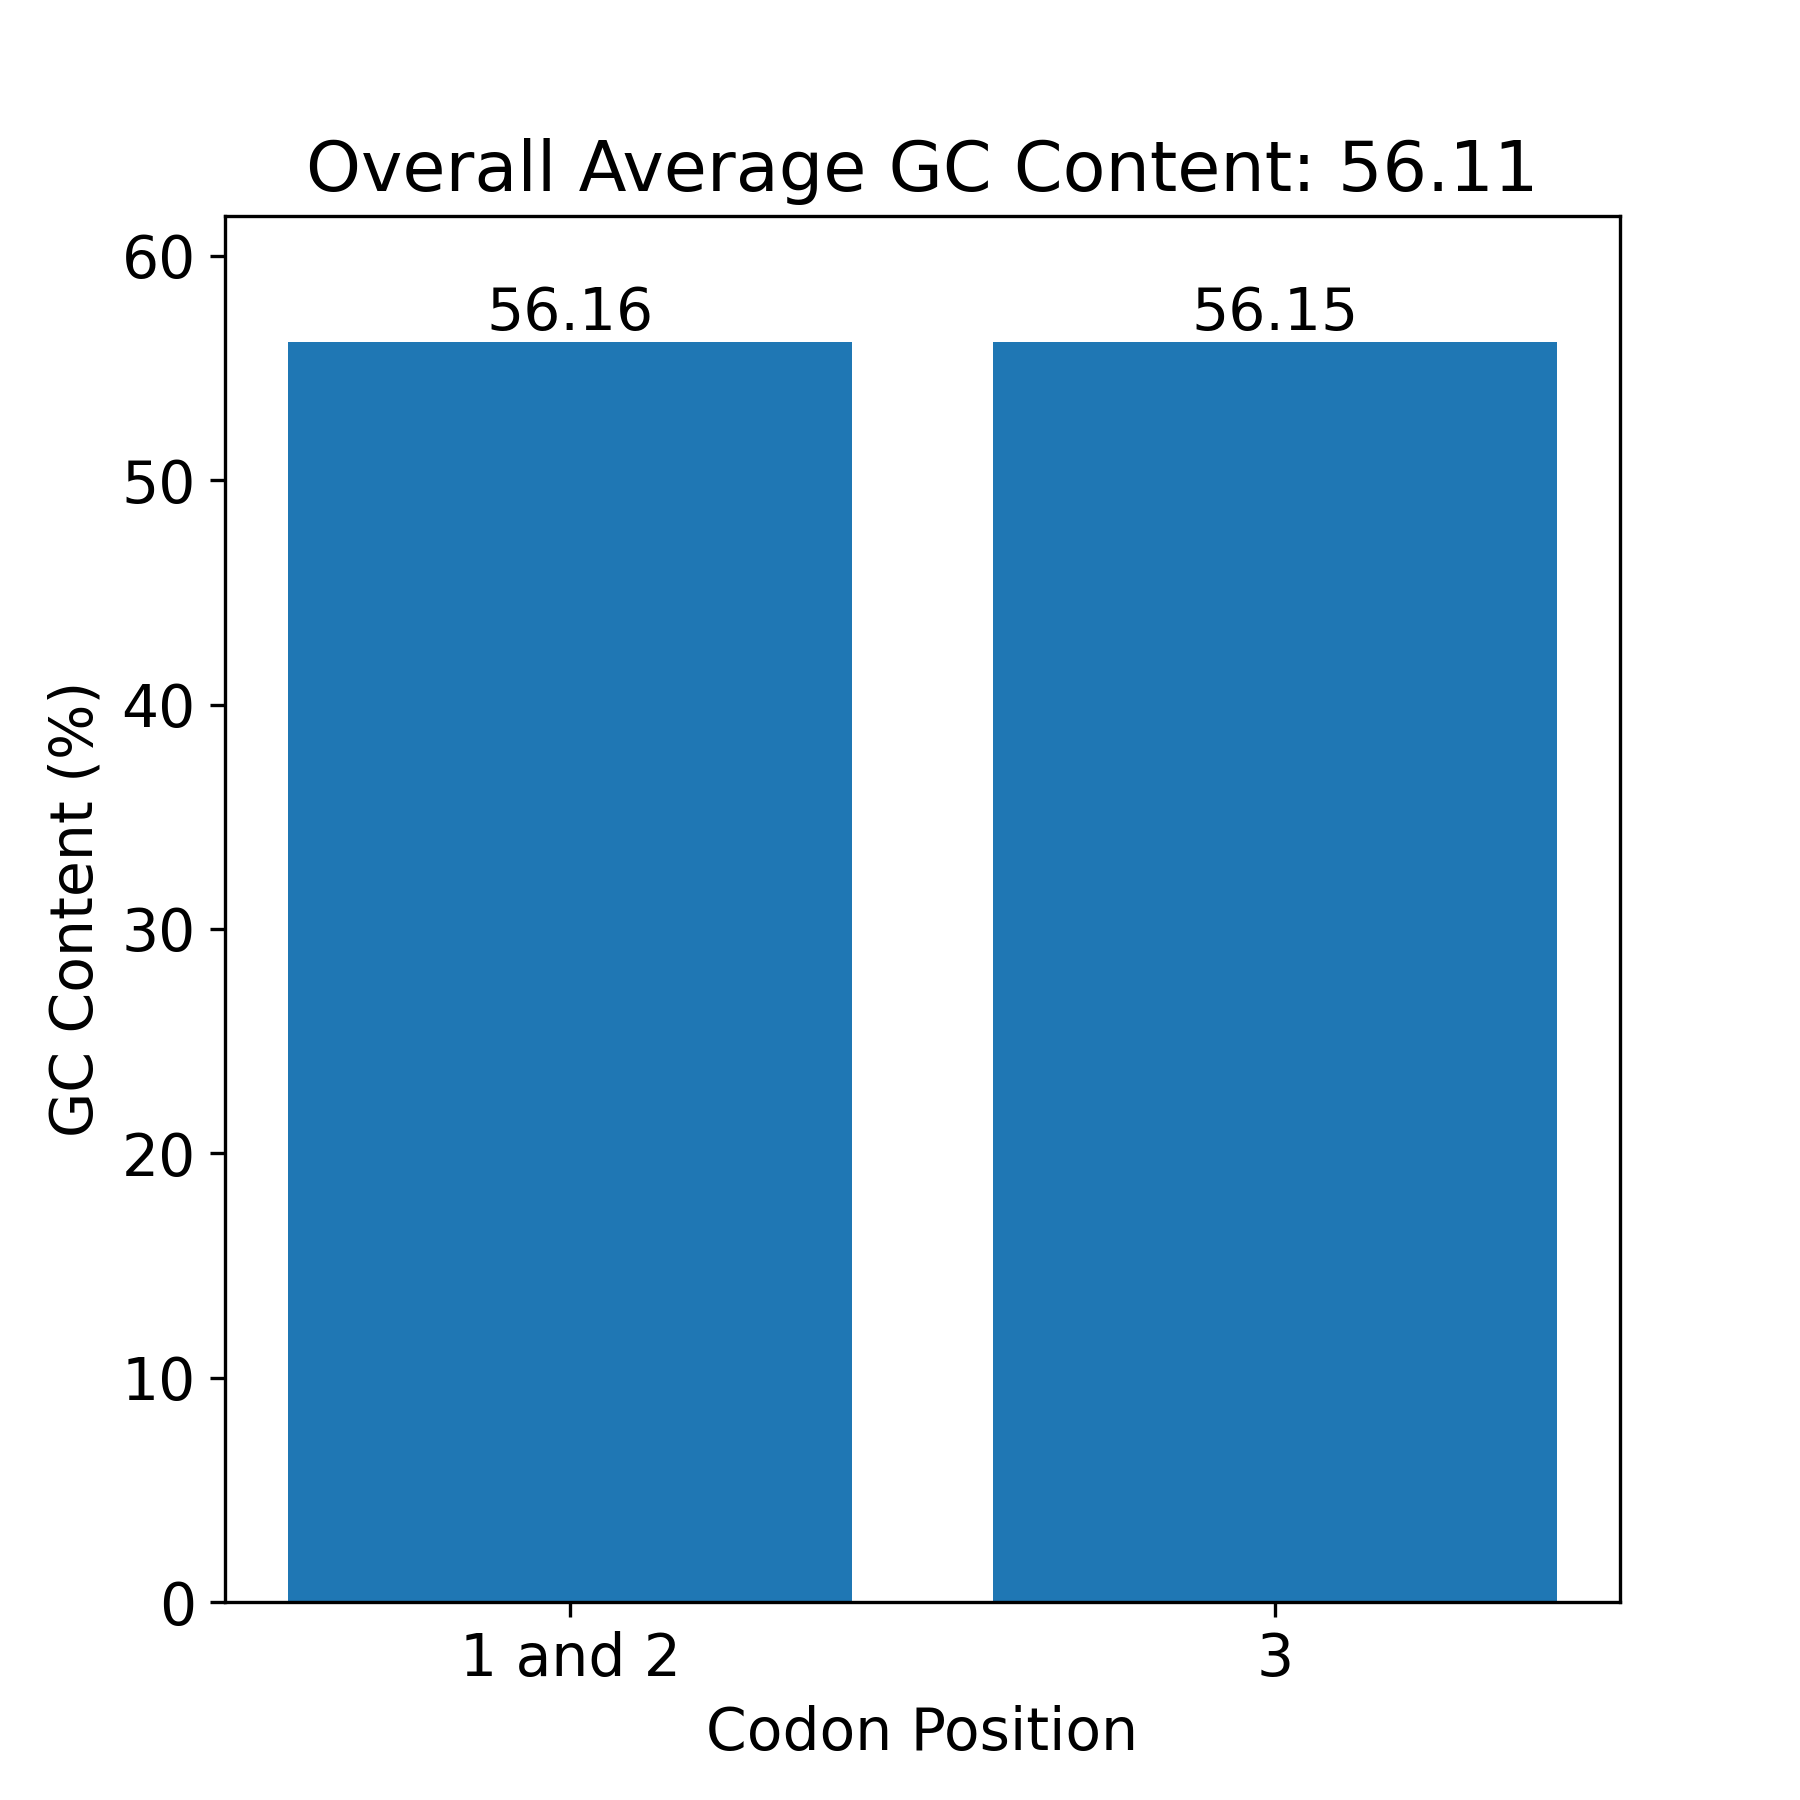
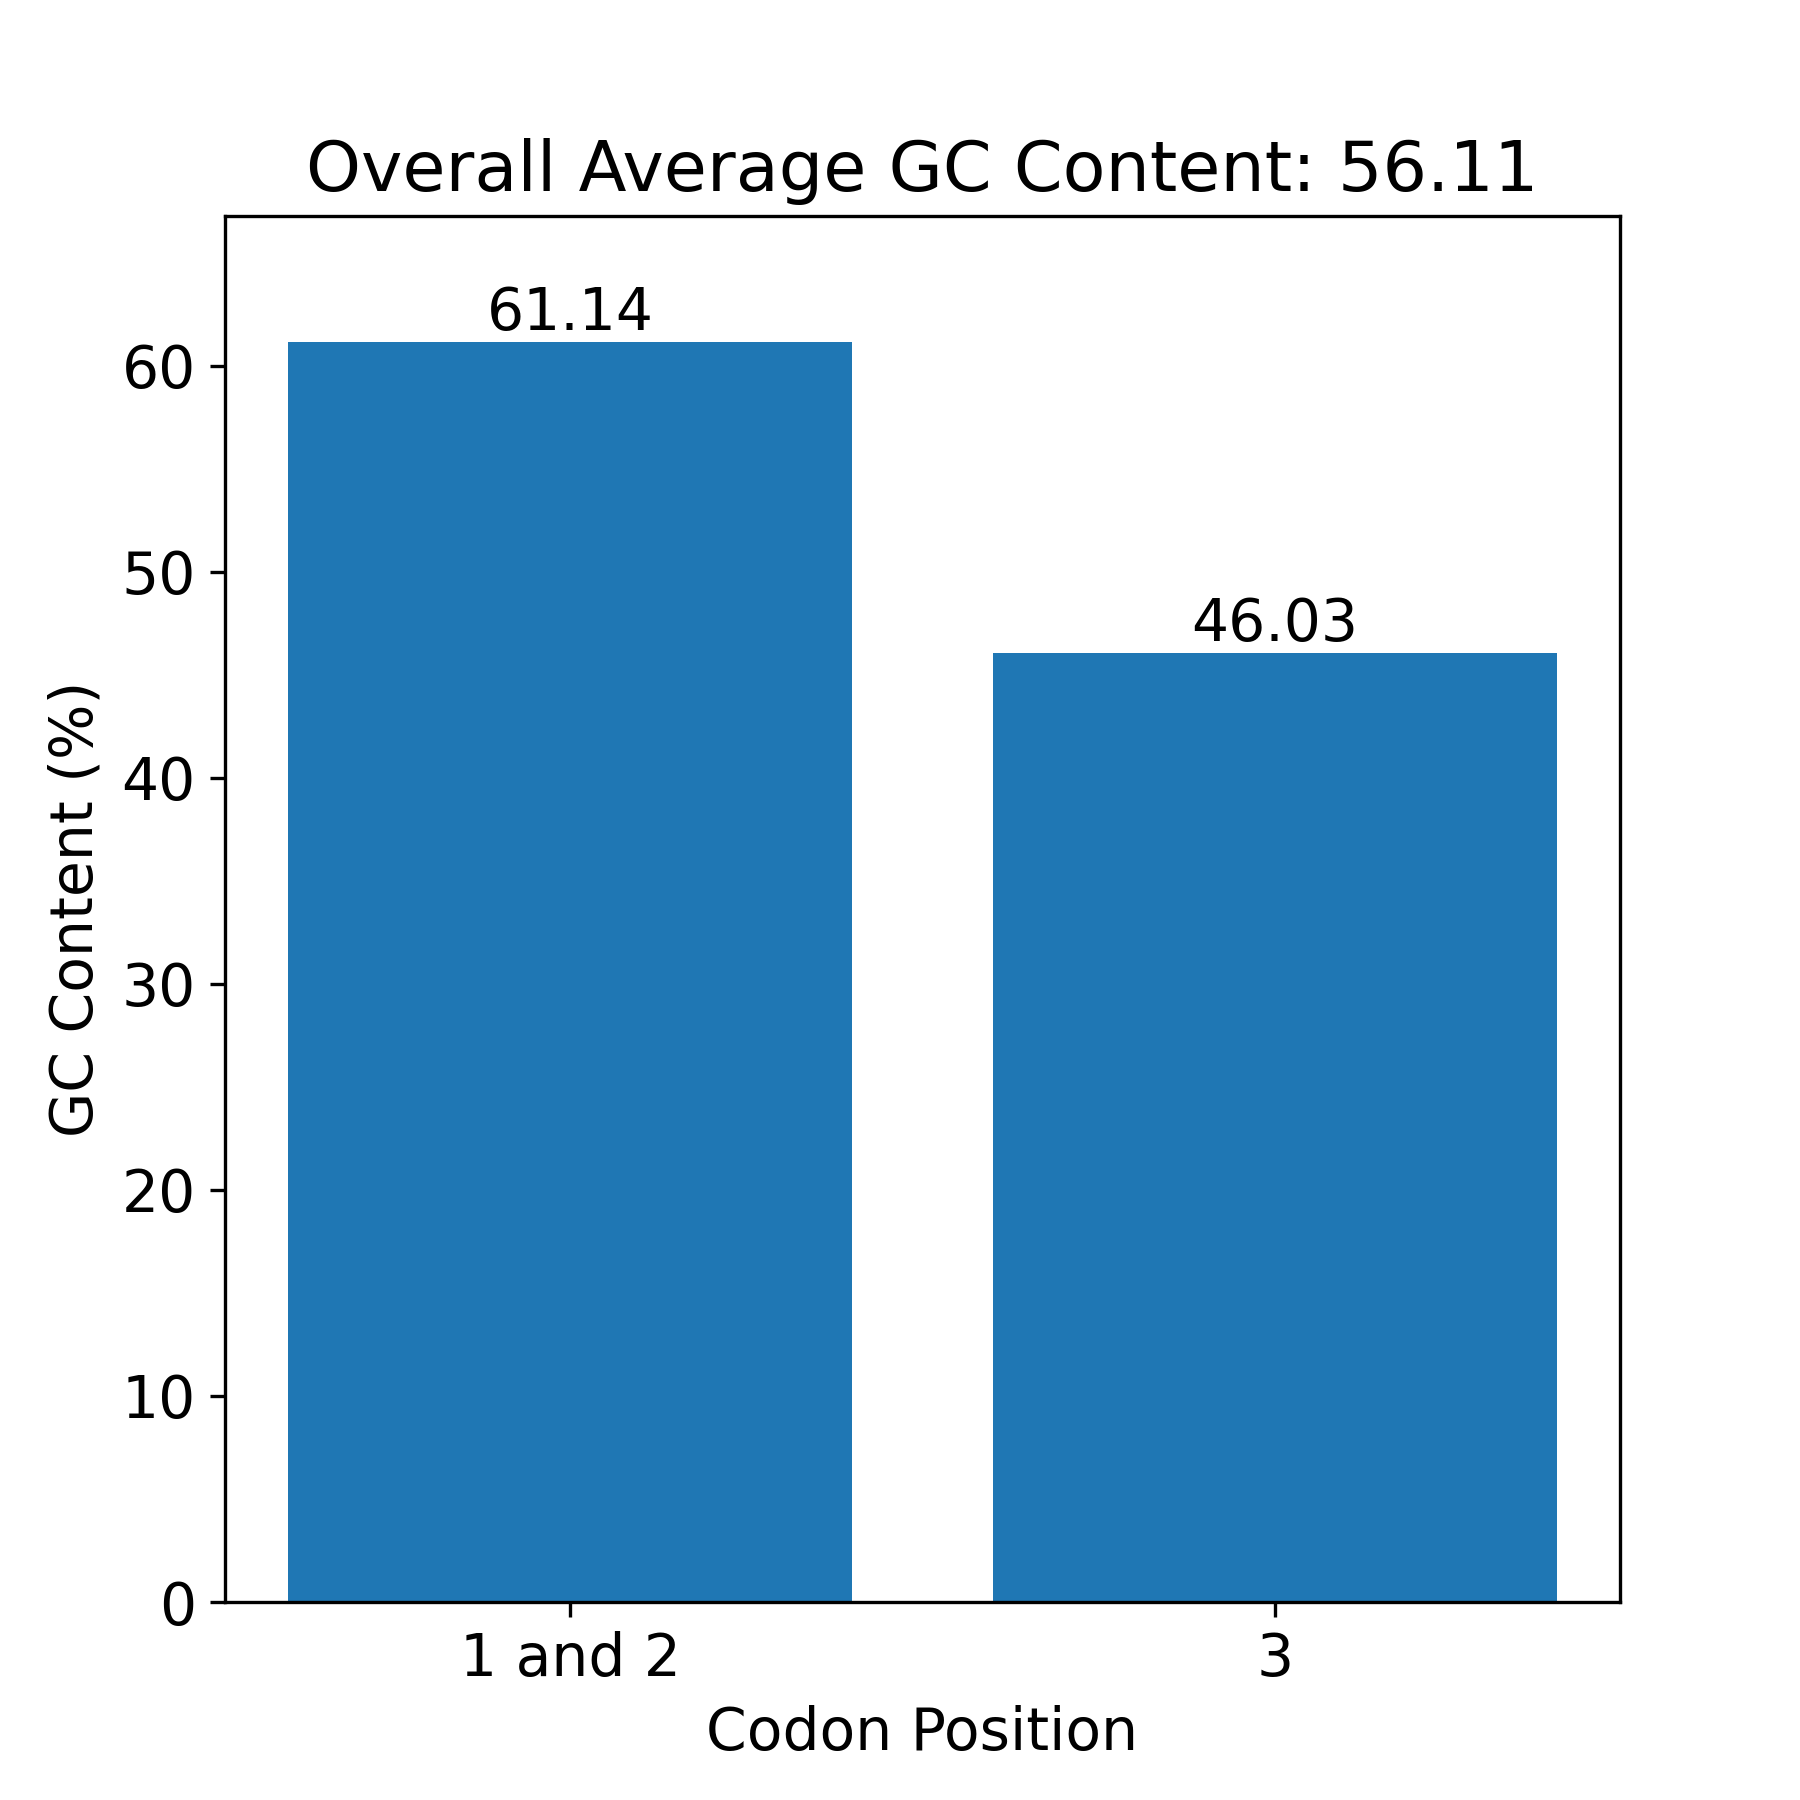
fixed codon position GC content calculation

diff --git a/main.py b/main.py
@@ -5,7 +5,7 @@ import plotting
 
 # read file
 script_dir = os.path.dirname(os.path.abspath(__file__))
-file_name = os.path.join(script_dir, 'raw_data/test_sequences.fasta')
+file_name = os.path.join(script_dir, 'local_raw_data/gene.fna')
 
 # open file as fasta (each line is either the name of a sequence or a sequence itself)
 names = []
@@ -16,11 +16,11 @@ with open(file_name, 'r') as fa:
         seqs.append(str(record.seq))
 
 # directories to save things to
-plot_output_dir = 'plots'
+plot_output_dir = 'local_plots'
 if not os.path.exists(plot_output_dir):
     os.makedirs(plot_output_dir)
 
-data_output_dir = 'output'
+data_output_dir = 'local_output'
 if not os.path.exists(data_output_dir):
     os.makedirs(data_output_dir)
 

diff --git a/plotting.py b/plotting.py
@@ -81,8 +81,8 @@ def gc(sequence: str, window_size: int, lineplot_filename: str, bar_filename: st
     # plotting average GC content of bp 1 and 2 vs 3 in codons
     bp = ['1 and 2', '3']
     gc_all = analysis.gc(sequence)
-    gc12 = (sum(data[0::3])+sum(data[1::3])) / (len(data[0::3]) + len(data[1::3]))
-    gc3 = sum(data[2::3]) / len(data[2::3])
+    gc12 = analysis.gc(sequence[0::3] + sequence[1::3])
+    gc3 = analysis.gc(sequence[2::3])
 
     plt.rcParams.update({'font.size': 14}) 
     fig, ax = plt.subplots(figsize=(6, 6))
